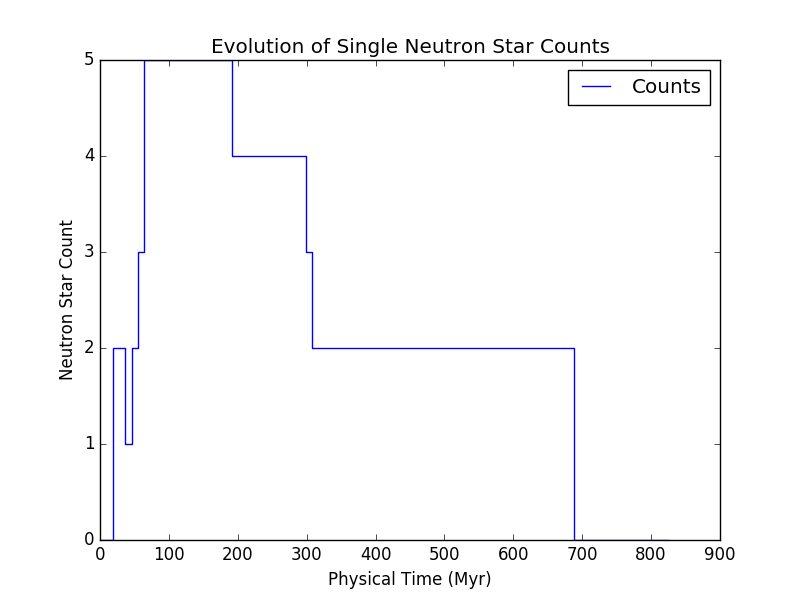
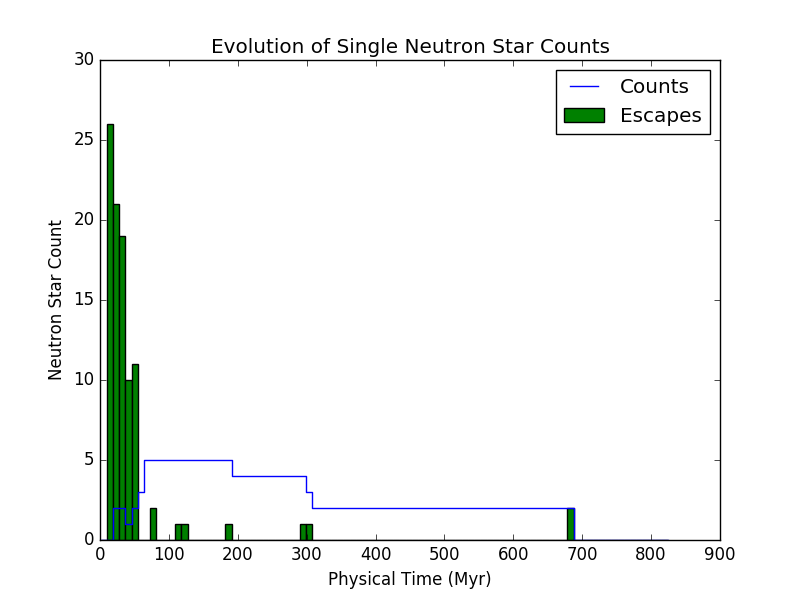
Change escape counting function to return list of physical times.

diff --git a/scripts/neutron_stars.py b/scripts/neutron_stars.py
@@ -13,7 +13,7 @@ import bisect
 import numpy as np
 
 __author__ = "Joon Park"
-__version__ = 1.0
+__version__ = 1.2
 __email__ = "JoonPark@u.northwestern.edu"
 
 # Set data source directory relative to this file.
@@ -104,23 +104,14 @@ def get_binary_data():
 
     return (timesteps, starcounts)
 
-def get_single_escape_data():
-    """Returns the number of escaped neutron stars with physical times.
+def get_single_escapes():
+    """Returns a list of physics times at which a neutron star escaped.
 
     For single stars only, not binary stars!
-
-    return format:
-        (
-            [physical_time_1, physical_time_2, ...],
-            [#_of_escaped_neutron_stars_1, #_of_escaped_neutron_stars_2, ...]
-        )
-
-        Ordered according to physical time.
     """
     filename = os.path.join(DATA_DIR, "esc.11")
 
-    timesteps = [] # Will hold the physical times from each file
-    starcounts = [] # Will hold numbers of escaped neutron stars at each timestep.
+    times = []
     with open(filename, 'r') as f:
         # Skip the header
         next(f)
@@ -133,15 +124,9 @@ def get_single_escape_data():
             if int(type) == NEUTRON_STAR:
                 # Physical time is the first item in each line
                 time = data_line[0]
-                # If timestep is same as previous line, update instead of add data.
-                last_ind = len(timesteps) - 1
-                if last_ind >= 0 and timesteps[last_ind] == time:
-                    starcounts[last_ind] += 1
-                else:
-                    timesteps.append(time)
-                    starcounts.append(1)
+                times.append(float(time))
 
-    return (timesteps, starcounts)
+    return times
 
 def hist_data(timesteps, counts):
     """Converts timesteps and counts to a histogrammable format.
@@ -164,12 +149,12 @@ def hist_data(timesteps, counts):
 
 def main():
     single = get_single_data()
-    single_escape = get_single_escape_data()
-
     single_hist = hist_data(single[0], single[1])
-
     plt.plot(single_hist[0], single_hist[1], label="Counts")
-    # plt.plot(single_escape[0], single_escape[1], 'o', label="Escapes")
+
+    single_escapes = get_single_escapes()
+    plt.hist(single_escapes, bins=single[0], label="Escapes")
+
     plt.title("Evolution of Single Neutron Star Counts")
     plt.xlabel("Physical Time (Myr)")
     plt.ylabel("Neutron Star Count")
